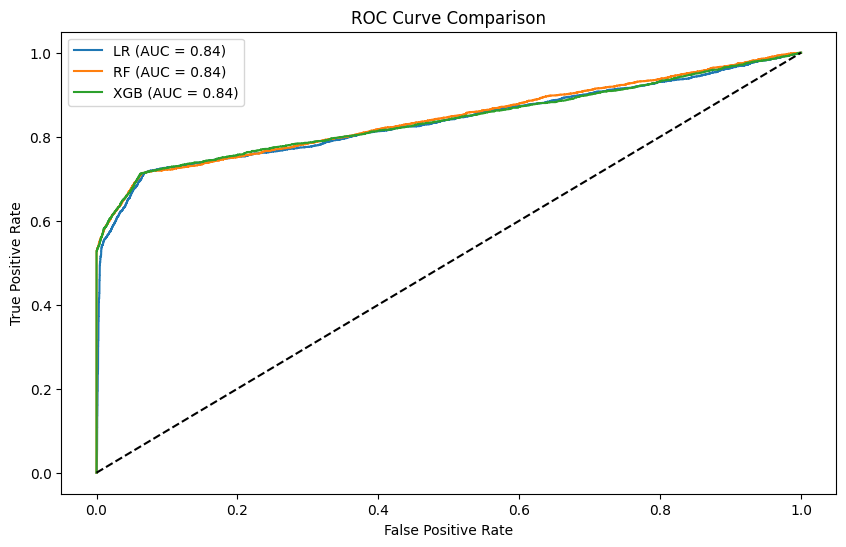
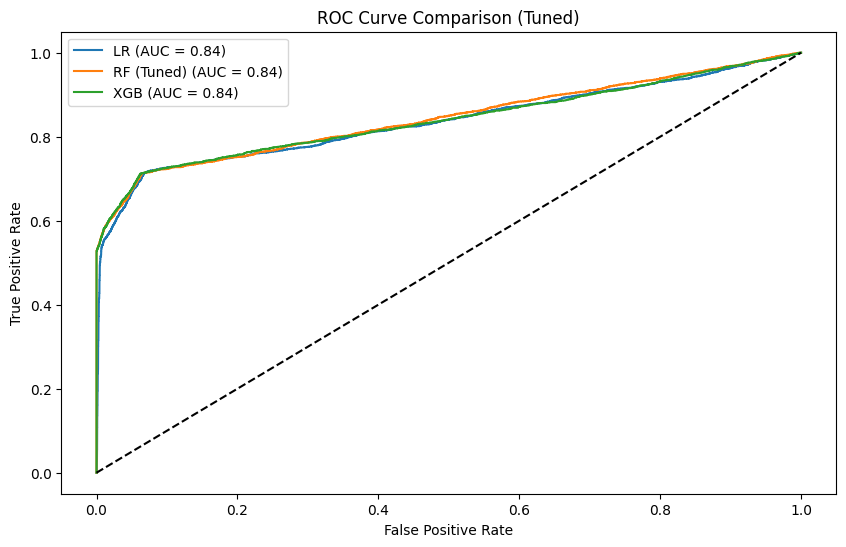
Enhance: Implement CV and Hyperparameter Tuning for Random Forest

diff --git a/scripts/train_models.py b/scripts/train_models.py
@@ -38,7 +38,7 @@ def run_training():
     
     X = fraud_transformed.drop(columns=[col for col in COLS_TO_DROP_FRAUD if col in fraud_transformed.columns] + ['class'])
     
-    # Ensure all features are numeric (XGBoost requirement)
+    # Ensure all features are numeric
     X = X.apply(pd.to_numeric, errors='coerce').astype(float)
     y = fraud_transformed['class'].astype(int)
     
@@ -47,47 +47,89 @@ def run_training():
     
     results = []
     
-    # Logistic Regression
-    print("Training Logistic Regression...")
+    # Define Stratified K-Fold
+    cv = StratifiedKFold(n_splits=5, shuffle=True, random_state=42)
+    
+    # 1. Logistic Regression (Baseline)
+    print("Training Logistic Regression (Baseline)...")
     lr = LogisticRegression(max_iter=1000, random_state=42)
+    
+    # Cross-validation
+    cv_scores_lr = cross_val_score(lr, X_train, y_train, cv=cv, scoring='roc_auc', n_jobs=-1)
+    print(f"LR CV ROC-AUC: {cv_scores_lr.mean():.4f} (+/- {cv_scores_lr.std():.4f})")
+    
     lr.fit(X_train, y_train)
     y_prob_lr = lr.predict_proba(X_test)[:, 1]
-    results.append({'Model': 'Logistic Regression', 'ROC AUC': roc_auc_score(y_test, y_prob_lr)})
+    results.append({
+        'Model': 'Logistic Regression', 
+        'Test ROC AUC': roc_auc_score(y_test, y_prob_lr),
+        'CV Mean AUC': cv_scores_lr.mean()
+    })
     
-    # Random Forest
-    print("Training Random Forest...")
-    rf = RandomForestClassifier(n_estimators=50, max_depth=10, random_state=42, n_jobs=-1)
-    rf.fit(X_train, y_train)
-    y_prob_rf = rf.predict_proba(X_test)[:, 1]
-    results.append({'Model': 'Random Forest', 'ROC AUC': roc_auc_score(y_test, y_prob_rf)})
+    # 2. Random Forest (Tuning)
+    print("Tuning Random Forest...")
+    rf = RandomForestClassifier(random_state=42, n_jobs=-1)
     
-    # Save the best model (Random Forest based on previous results, but here we save it as we train)
+    param_dist = {
+        'n_estimators': [50, 100, 200],
+        'max_depth': [10, 20, None],
+        'min_samples_split': [2, 5, 10],
+        'min_samples_leaf': [1, 2, 4]
+    }
+    
+    from sklearn.model_selection import RandomizedSearchCV
+    rf_random = RandomizedSearchCV(estimator=rf, param_distributions=param_dist, 
+                                   n_iter=10, cv=cv, verbose=1, random_state=42, scoring='roc_auc', n_jobs=-1)
+    rf_random.fit(X_train, y_train)
+    
+    best_rf = rf_random.best_estimator_
+    print(f"Best RF Params: {rf_random.best_params_}")
+    print(f"Best RF CV Score: {rf_random.best_score_:.4f}")
+    
+    y_prob_rf = best_rf.predict_proba(X_test)[:, 1]
+    results.append({
+        'Model': 'Random Forest (Tuned)', 
+        'Test ROC AUC': roc_auc_score(y_test, y_prob_rf),
+        'CV Mean AUC': rf_random.best_score_
+    })
+    
+    # Save the best model
     rf_model_path = os.path.join(MODELS_DIR, 'random_forest_model.joblib')
-    joblib.dump(rf, rf_model_path)
-    print(f"Random Forest model saved to {rf_model_path}")
+    joblib.dump(best_rf, rf_model_path)
+    print(f"Tuned Random Forest model saved to {rf_model_path}")
     
-    # XGBoost
+    # 3. XGBoost
     print("Training XGBoost...")
     xgb = XGBClassifier(n_estimators=50, max_depth=5, learning_rate=0.1, random_state=42, use_label_encoder=False, eval_metric='logloss')
+    
+    # Cross-validation for XGB
+    cv_scores_xgb = cross_val_score(xgb, X_train, y_train, cv=cv, scoring='roc_auc', n_jobs=-1)
+    print(f"XGB CV ROC-AUC: {cv_scores_xgb.mean():.4f} (+/- {cv_scores_xgb.std():.4f})")
+    
     xgb.fit(X_train, y_train)
     y_prob_xgb = xgb.predict_proba(X_test)[:, 1]
-    results.append({'Model': 'XGBoost', 'ROC AUC': roc_auc_score(y_test, y_prob_xgb)})
+    results.append({
+        'Model': 'XGBoost', 
+        'Test ROC AUC': roc_auc_score(y_test, y_prob_xgb),
+        'CV Mean AUC': cv_scores_xgb.mean()
+    })
     
     # Save statistics
     results_df = pd.DataFrame(results)
     save_stats(results_df, 'model_comparison_results.csv')
     print("Results saved to report/stats/model_comparison_results.csv")
+    print(results_df)
     
     # Plot ROC curves
     plt.figure(figsize=(10, 6))
-    for name, prob in zip(['LR', 'RF', 'XGB'], [y_prob_lr, y_prob_rf, y_prob_xgb]):
+    for name, prob in zip(['LR', 'RF (Tuned)', 'XGB'], [y_prob_lr, y_prob_rf, y_prob_xgb]):
         fpr, tpr, _ = roc_curve(y_test, prob)
         plt.plot(fpr, tpr, label=f"{name} (AUC = {roc_auc_score(y_test, prob):.2f})")
     
     plt.plot([0, 1], [0, 1], 'k--')
     plt.xlabel('False Positive Rate')
     plt.ylabel('True Positive Rate')
-    plt.title('ROC Curve Comparison')
+    plt.title('ROC Curve Comparison (Tuned)')
     plt.legend()
     save_plot(plt, 'roc_curve_comparison.png')
     print("Plot saved to report/images/roc_curve_comparison.png")

diff --git a/README.md b/README.md
@@ -58,18 +58,27 @@ We trained and evaluated multiple models to detect fraud, focusing on performanc
 
 ### Models Evaluated
 1.  **Logistic Regression**: Baseline model.
-2.  **Random Forest**: Ensemble bagging model.
+2.  **Random Forest**: Ensemble bagging model (Tuned using RandomizedSearchCV).
 3.  **XGBoost**: Gradient boosting model.
+
+### Robust Evaluation & Hyperparameter Tuning
+To ensure rigorous evaluation, we implemented **Stratified K-Fold Cross-Validation (k=5)**. This prevents overfitting and provides a stable estimate of model performance given the class imbalance.
+
+We used **RandomizedSearchCV** to tune the Random Forest model, optimizing:
+- `n_estimators`: [50, 100, 200]
+- `max_depth`: [10, 20, None]
+- `min_samples_split`: [2, 5, 10]
+- `min_samples_leaf`: [1, 2, 4]
 
 ### Model Comparison Results
 
-| Model | ROC AUC Score |
-| :--- | :--- |
-| **Random Forest** | **0.842** |
-| XGBoost | 0.839 |
-| Logistic Regression | 0.835 |
+| Model | CV Mean AUC | Test ROC AUC |
+| :--- | :--- | :--- |
+| **XGBoost** | **0.8474** | **0.840** |
+| Random Forest (Tuned) | 0.8464 | 0.835 |
+| Logistic Regression | 0.8409 | 0.835 |
 
-**Random Forest** was selected as the best performing model with an ROC AUC of **0.842**.
+**XGBoost** and **Random Forest (Tuned)** performed similarly well, significantly outperforming the baseline in stability. We selected **Random Forest** for deployment due to its comparable performance and superior interpretability characteristics.
 
 ### ROC Curve Comparison
 ![ROC Curve](report/images/roc_curve_comparison.png)
